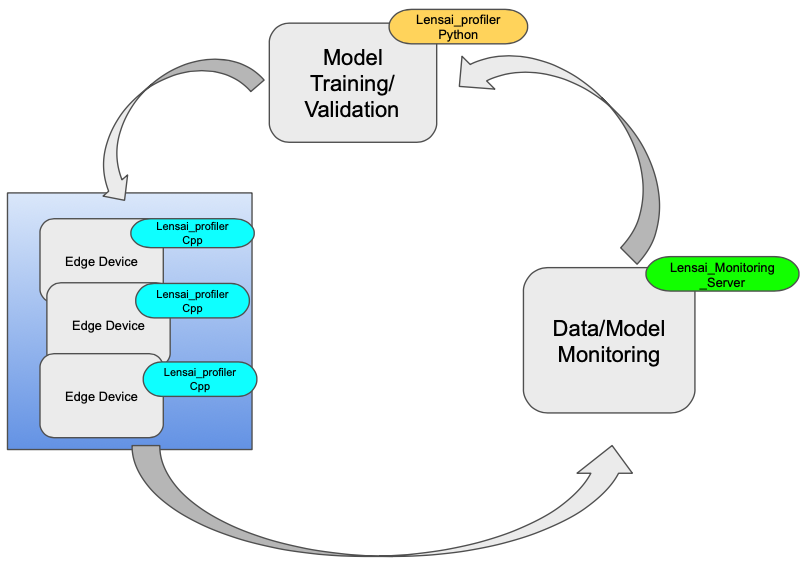
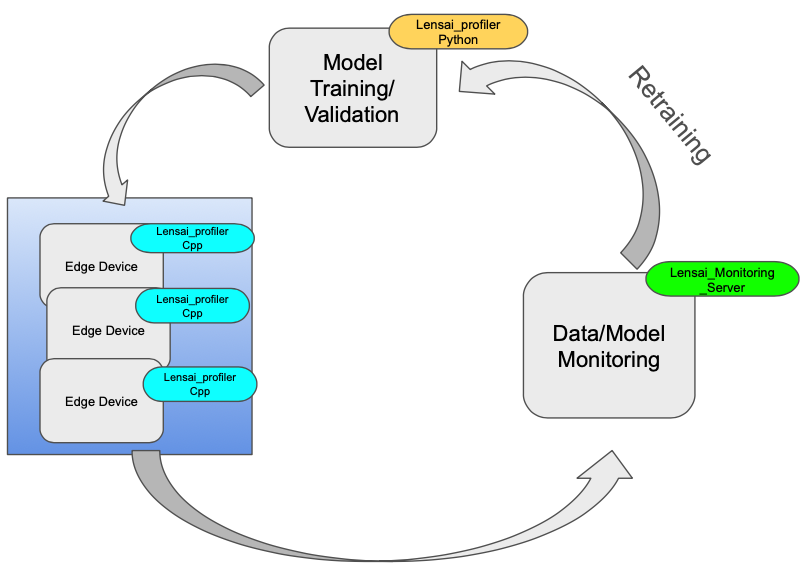
README.md file updated.

diff --git a/README.md b/README.md
@@ -1,0 +1,210 @@
+![Build Status](https://github.com/lens-ai/lensai_profiler_cpp/actions/workflows/ci.yaml/badge.svg)
+
+# LensAI Profiler Cpp
+
+Lensai profiler Cpp is a C++ library designed for AI model observability and  data sampling in real-time, specifically focused on edge devices.
+The goal of lens AI is to Manage, debug, and retrain AI models at the edge efficiently.
+Lens AI Cpp profiler includes three libraries: `libimageprofiler.so`,  `libimagesampler.so`, and `libmodelprofiler.so`.
+The current version of LensAI is focussed towards Vision but soon will support the other data types.
+
+![Block Diagram](https://raw.githubusercontent.com/lens-ai/lensai_profiler_cpp/main/blockdiagram_cpp.png)
+
+## Model monitoring pipeline for Edge devices
+
+### Model Training - Use the lensai_profiler_python 
+During the model training process, It is important to profile the base line metrics, so that later they can be used for the drift and error approximation.
+use the lensai_profiler_python : [github](https://github.com/lens-ai/lensai_profiler_python) library to profile the training data. This step is crucial for establishing baseline profiles for data and model performance.
+
+### Model Deployment - Use the lensai_profiler_cpp (As most of the edge models inference happens using C++)
+During model deployment, integrate this Lensai C++ profiling code. This integration profiles athe real-time data and model metrics during inference, enabling continuous monitoring. It also samples the data that the model is most uncertain about using multiple sampling techniques.
+
+### Monitoring - Use lensai Monitoring Server 
+Use the LensAI Server to monitor data and model drift by comparing profiles from the training phase and real-time data obtained during inference. [github](https://github.com/lens-ai/lensai_monitoring_server) Detailed instructions and implementation examples are available in the examples directory.
+
+---
+
+## Key Advantages of using Lens AI summarized
+- The time complexity of the distribution profiles are sublinear space and time
+- The space complexity is  𝑂(1/𝜖log(𝜖𝑁)) where as classical logging it is O(N).
+- The time complexity while insertion and query time is O(log(1/ϵ)), where as classical logging it is O(N log(N))
+
+---
+
+## Memory Efficiency
+#### Fixed Memory Usage:
+The data structures used by Lens AI operate with a fixed amount of memory, making them ideal for applications with memory constraints or long-running processes where memory usage must remain predictable and bounded.
+
+#### Scalability:
+Unlike classical histograms that might require more memory as more data is processed or as data complexity increases (e.g., higher resolution, multiple channels), these sketches maintain a consistent memory footprint, ensuring efficient scalability.
+
+---
+
+## Accuracy and Error Bounds
+#### Provable Error Guarantees:
+Lens AI's data structures provide quantifiable error bounds for their approximations. This allows control over the trade-off between memory usage and accuracy, ensuring reliable results within acceptable error margins.
+
+#### Adaptability:
+These data structures dynamically adjust to the data distribution, providing better accuracy for varying data, unlike classical histograms that might become less accurate if the data distribution changes significantly.
+
+---
+
+## Flexibility in Queries
+#### Quantile Queries:
+Lens AI leverages KLL sketches for highly efficient quantile queries, essential for understanding data distributions and for various statistical analyses. Classical histograms require additional processing to derive quantiles, which can be computationally expensive and less accurate.
+
+#### Versatile Statistical Summaries:
+The datastructures allow for efficient computation of a wide range of statistical summaries, making them suitable for complex data analysis tasks beyond simple frequency counts.
+
+---
+
+## Computational Efficiency
+#### Stream Processing:
+ KLL datastructures are designed for incremental updates, making them highly efficient for streaming data scenarios. Each insertion has an amortized logarithmic time complexity, which is manageable even for high-throughput data streams.
+
+#### Avoiding Reprocessing:
+In streaming data applications, the sketches handle data incrementally without the need to reprocess entire datasets, unlike classical methods that might require recalculating histograms from scratch when new data arrives.
+
+---
+
+## Practical Advantages
+#### Consistent Performance:
+In practice, these sketches offer high accuracy for quantile estimation with significantly less memory usage than exact methods, making them a practical choice for many real-world applications.
+
+#### Handling High-Dimensional Data:
+In scenarios involving high-resolution images or multiple channels (e.g., RGB), the sketches manage the complexity efficiently, avoiding the pitfalls of multidimensional histograms which can be cumbersome and memory-intensive.
+
+---
+
+## Simplified Data Management
+#### Automatic Range Adjustment:
+The sketches automatically adjust to the range and distribution of incoming data, reducing the need for manual tuning of bin ranges and resolutions, often required in classical histograms.
+
+#### Unified Data Structure:
+Using a single, unified data structure for summarizing distributions simplifies data management and processing pipelines, reducing complexity and potential for errors.
+
+---
+
+## Mergeability Across Sensors:
+The sketches are designed for distributed computing environments where data may be processed across multiple nodes or systems. They can be merged efficiently across nodes to provide a unified view of the data distribution, enabling scalable processing of large datasets.
+
+---
+
+## Product Dashboard:
+Please find the product roadmap and next planned releases [here]()
+
+---
+
+## Prerequisites
+Before you begin, ensure you have met the following requirements:
+- libboost-all-dev
+- libcurl4-openssl-dev
+- libtar-dev
+- libssl-dev
+- libgtest-dev
+- libopencv-dev
+
+## Table of Contents
+
+- [Installation](#installation)
+  - [From Source](#from-source)
+  - [Prebuilt Packages](#prebuilt-packages)
+  - [Docker Images](#docker-images)
+- [Usage](#usage)
+- [API Reference](#api-reference)
+- [Contributing](#contributing)
+- [License](#license)
+- [Contact](#contact)
+
+## Installation
+#### Prerequisites
+- C++17 or higher
+- CMake 3.10 or higher
+
+#### From Source
+##### Clone the repository
+   ```sh
+   https://github.com/lens-ai/lensai_profiler_cpp.git
+   cd datatracer
+  mkdir build
+  ```
+##### Build libraries with debug
+   ```sh
+   cd build
+   cmake ..
+   make
+  ```
+##### Build for Release
+  ```sh
+  cd build
+  cmake .. -D CMAKE_BUILD_TYPE=RELEASE
+  make
+  ```
+##### Run test
+  ```sh
+  cd build
+  cmake ..
+  make
+  make test
+  ```
+##### Build Example
+  ```sh
+  cd build
+  cmake ..
+  make
+  make TFLiteCheck
+ ```
+ ##### Build using docker
+  ```sh
+  cd Docker
+  ./build.sh
+  ```
+#### Prebuilt Packages 
+You can download and install prebuilt packages for various platforms:
+
+Debian: Download Lensai-v1.0.0-linux.tar.gz
+Raspian: Download Lensai-v1.0.0-linux.tar.gz
+
+Installation Instructions
+
+For Linux:
+tar -xzf Lensai-v1.0.0-linux.tar.gz
+sudo cp -r Lensai /usr/local/
+
+#### Docker Images
+- docker pull vsnm/lensai_profiler_cpp:latest
+- docker run -it --rm vsnm/lensai_profiler_cpp
+
+### Usage
+Please refer the examples directory for the detailed implementation examples.
+
+```cpp
+  int saveIntervalSec = 1;
+  int img_channels = 3;
+  std::string modelName = "Cat_dog_classfier_0.1";
+
+  ImageProfile image_profile(configFile, saveIntervalSec, channels);
+  ModelProfile model_profile(modelName, configFile, saveIntervalSec, channels);
+  ImageSampler image_sampler(configFile, saveIntervalSec);
+  
+  std::cout << "profiling image profile" <<std::endl;
+  image_profile.profile(frame, true);
+ 
+  std::cout << "profiling model profile" << std::endl;
+  model_profile.log_classification_model_stats(10.0, top_results);
+    
+  std::cout << "profiling samper" << std::endl;
+  image_sampler.sample(top_results, image, true);
+  ```
+Refer to the examples in the example folder
+
+## API Reference:
+Refer to the [documentation](github.com)
+## Contributors
+#### Venkata Pydipalli 
+Looking for the more contributors with Love.
+## License
+Apache 2
+## Credits
+Apache Datasketches
+## Contact
+vsnm.tej@gmail.com
